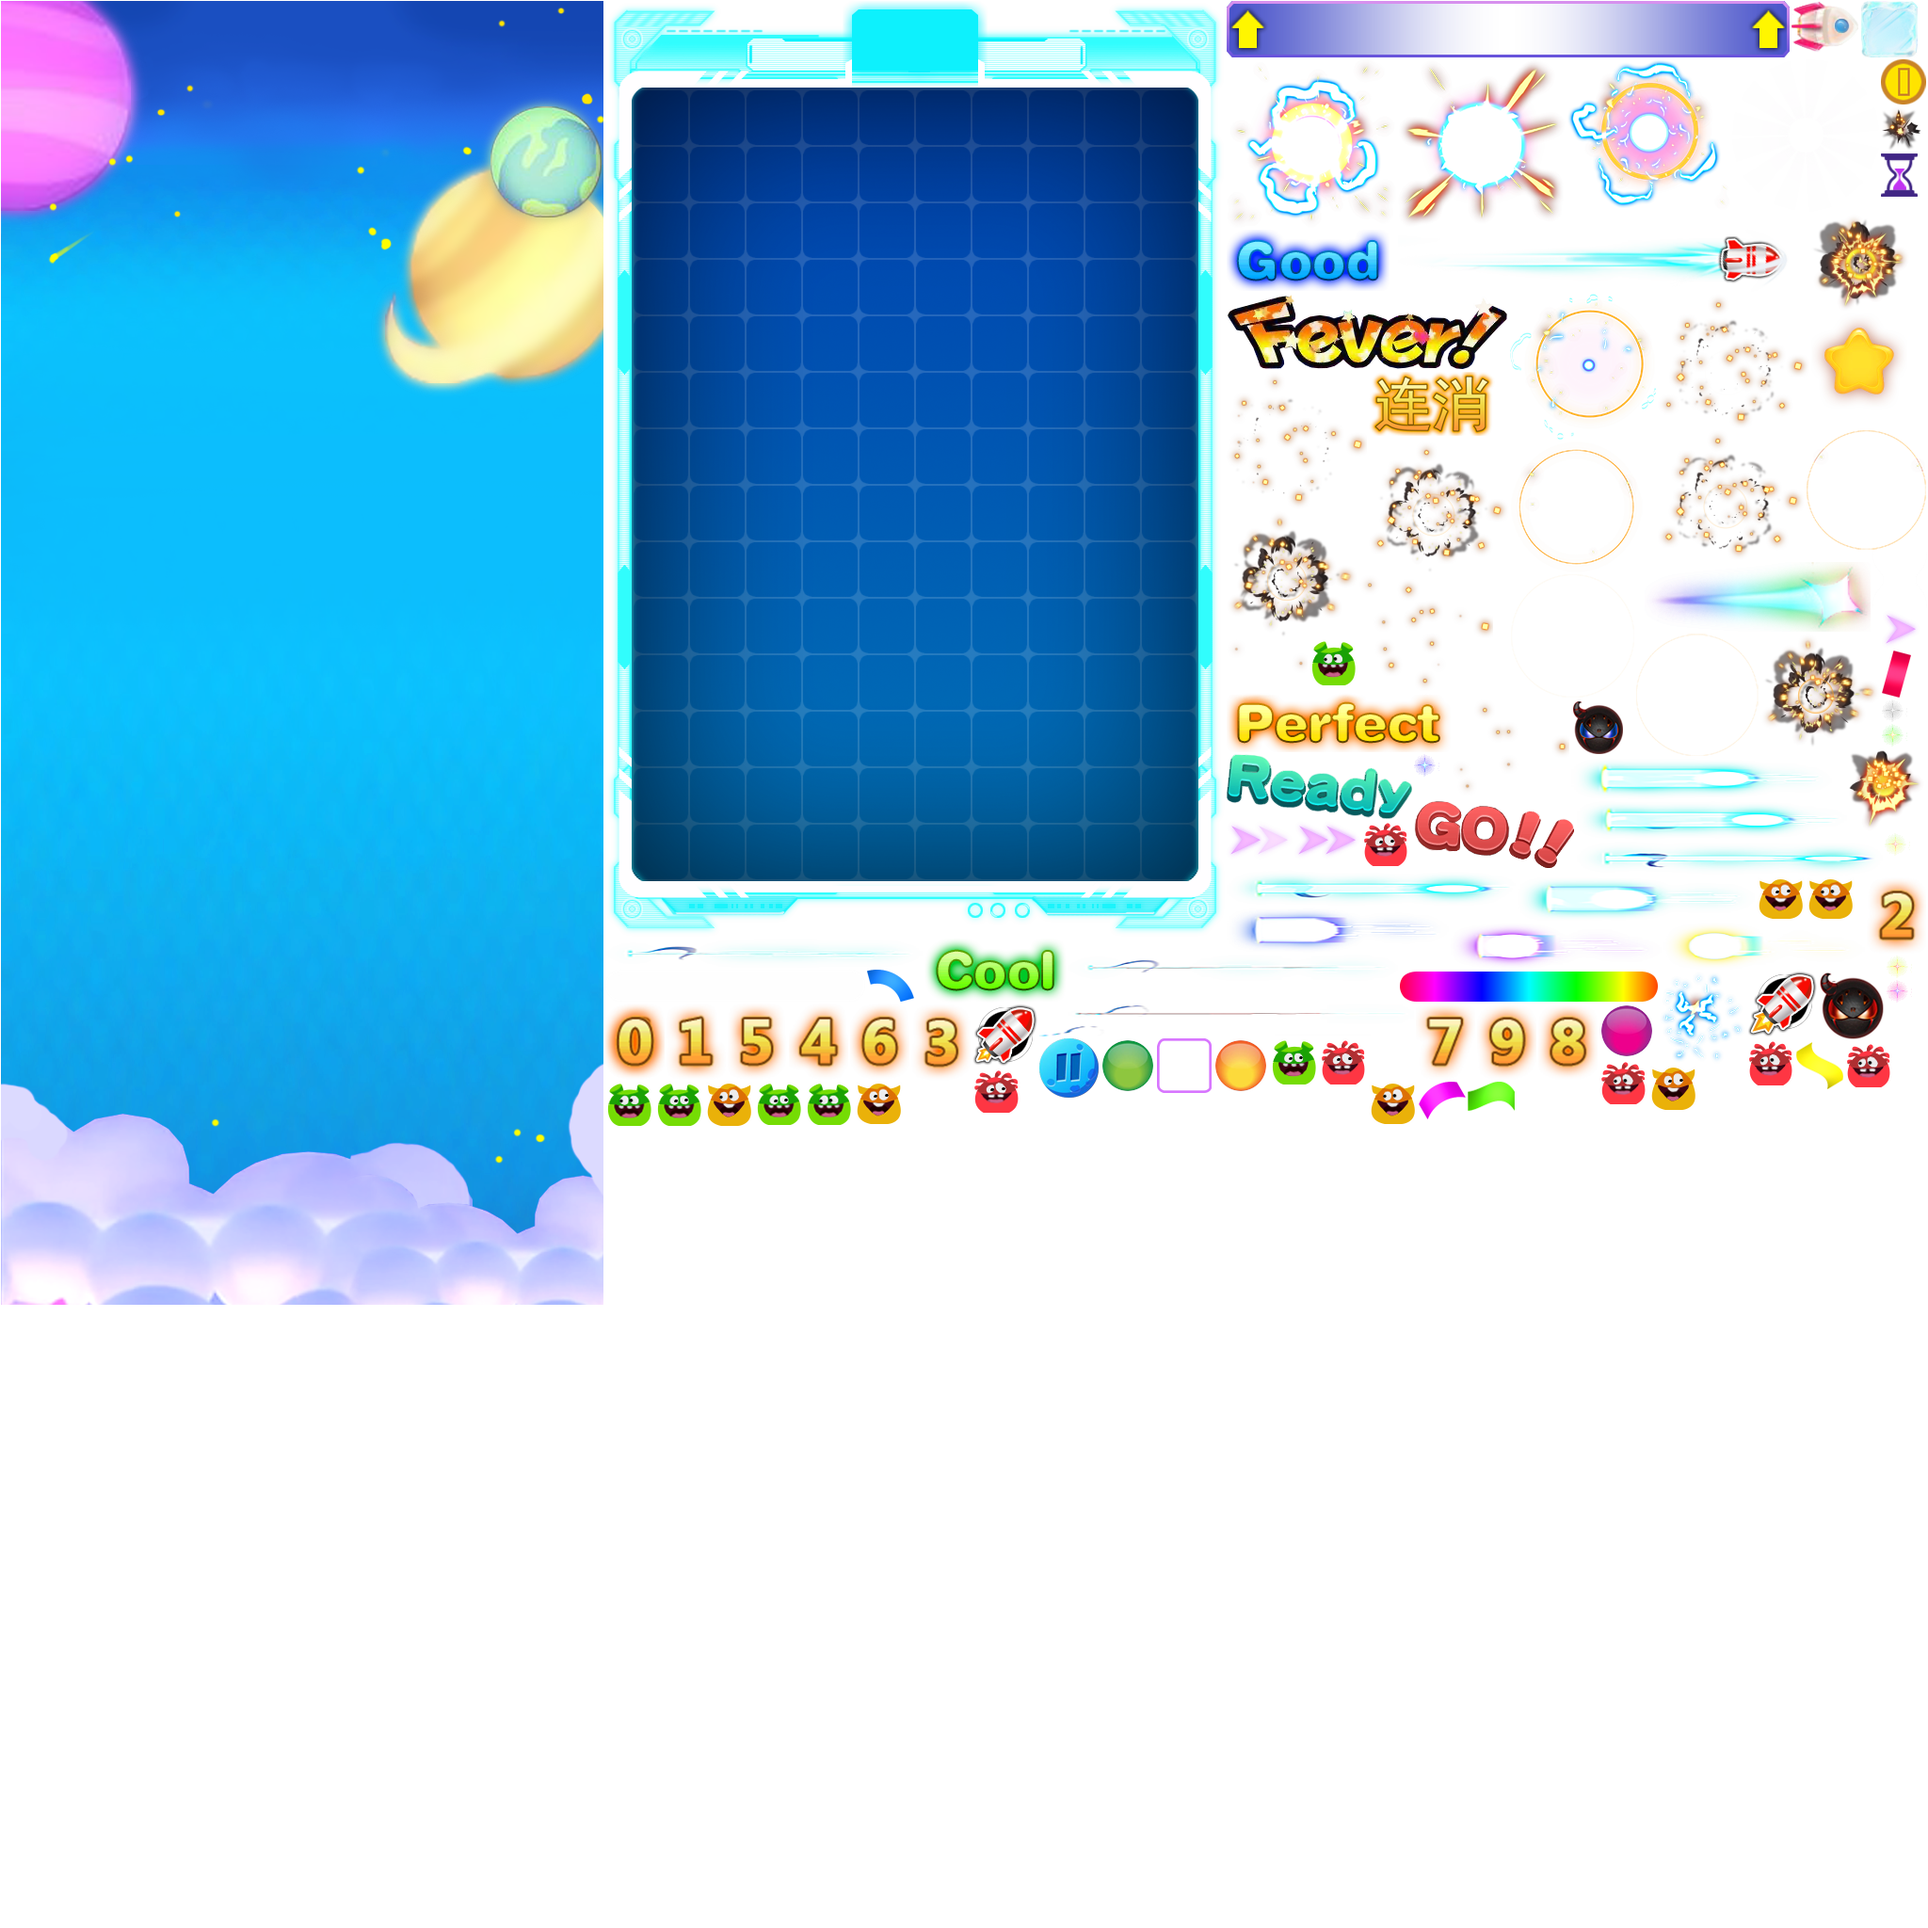
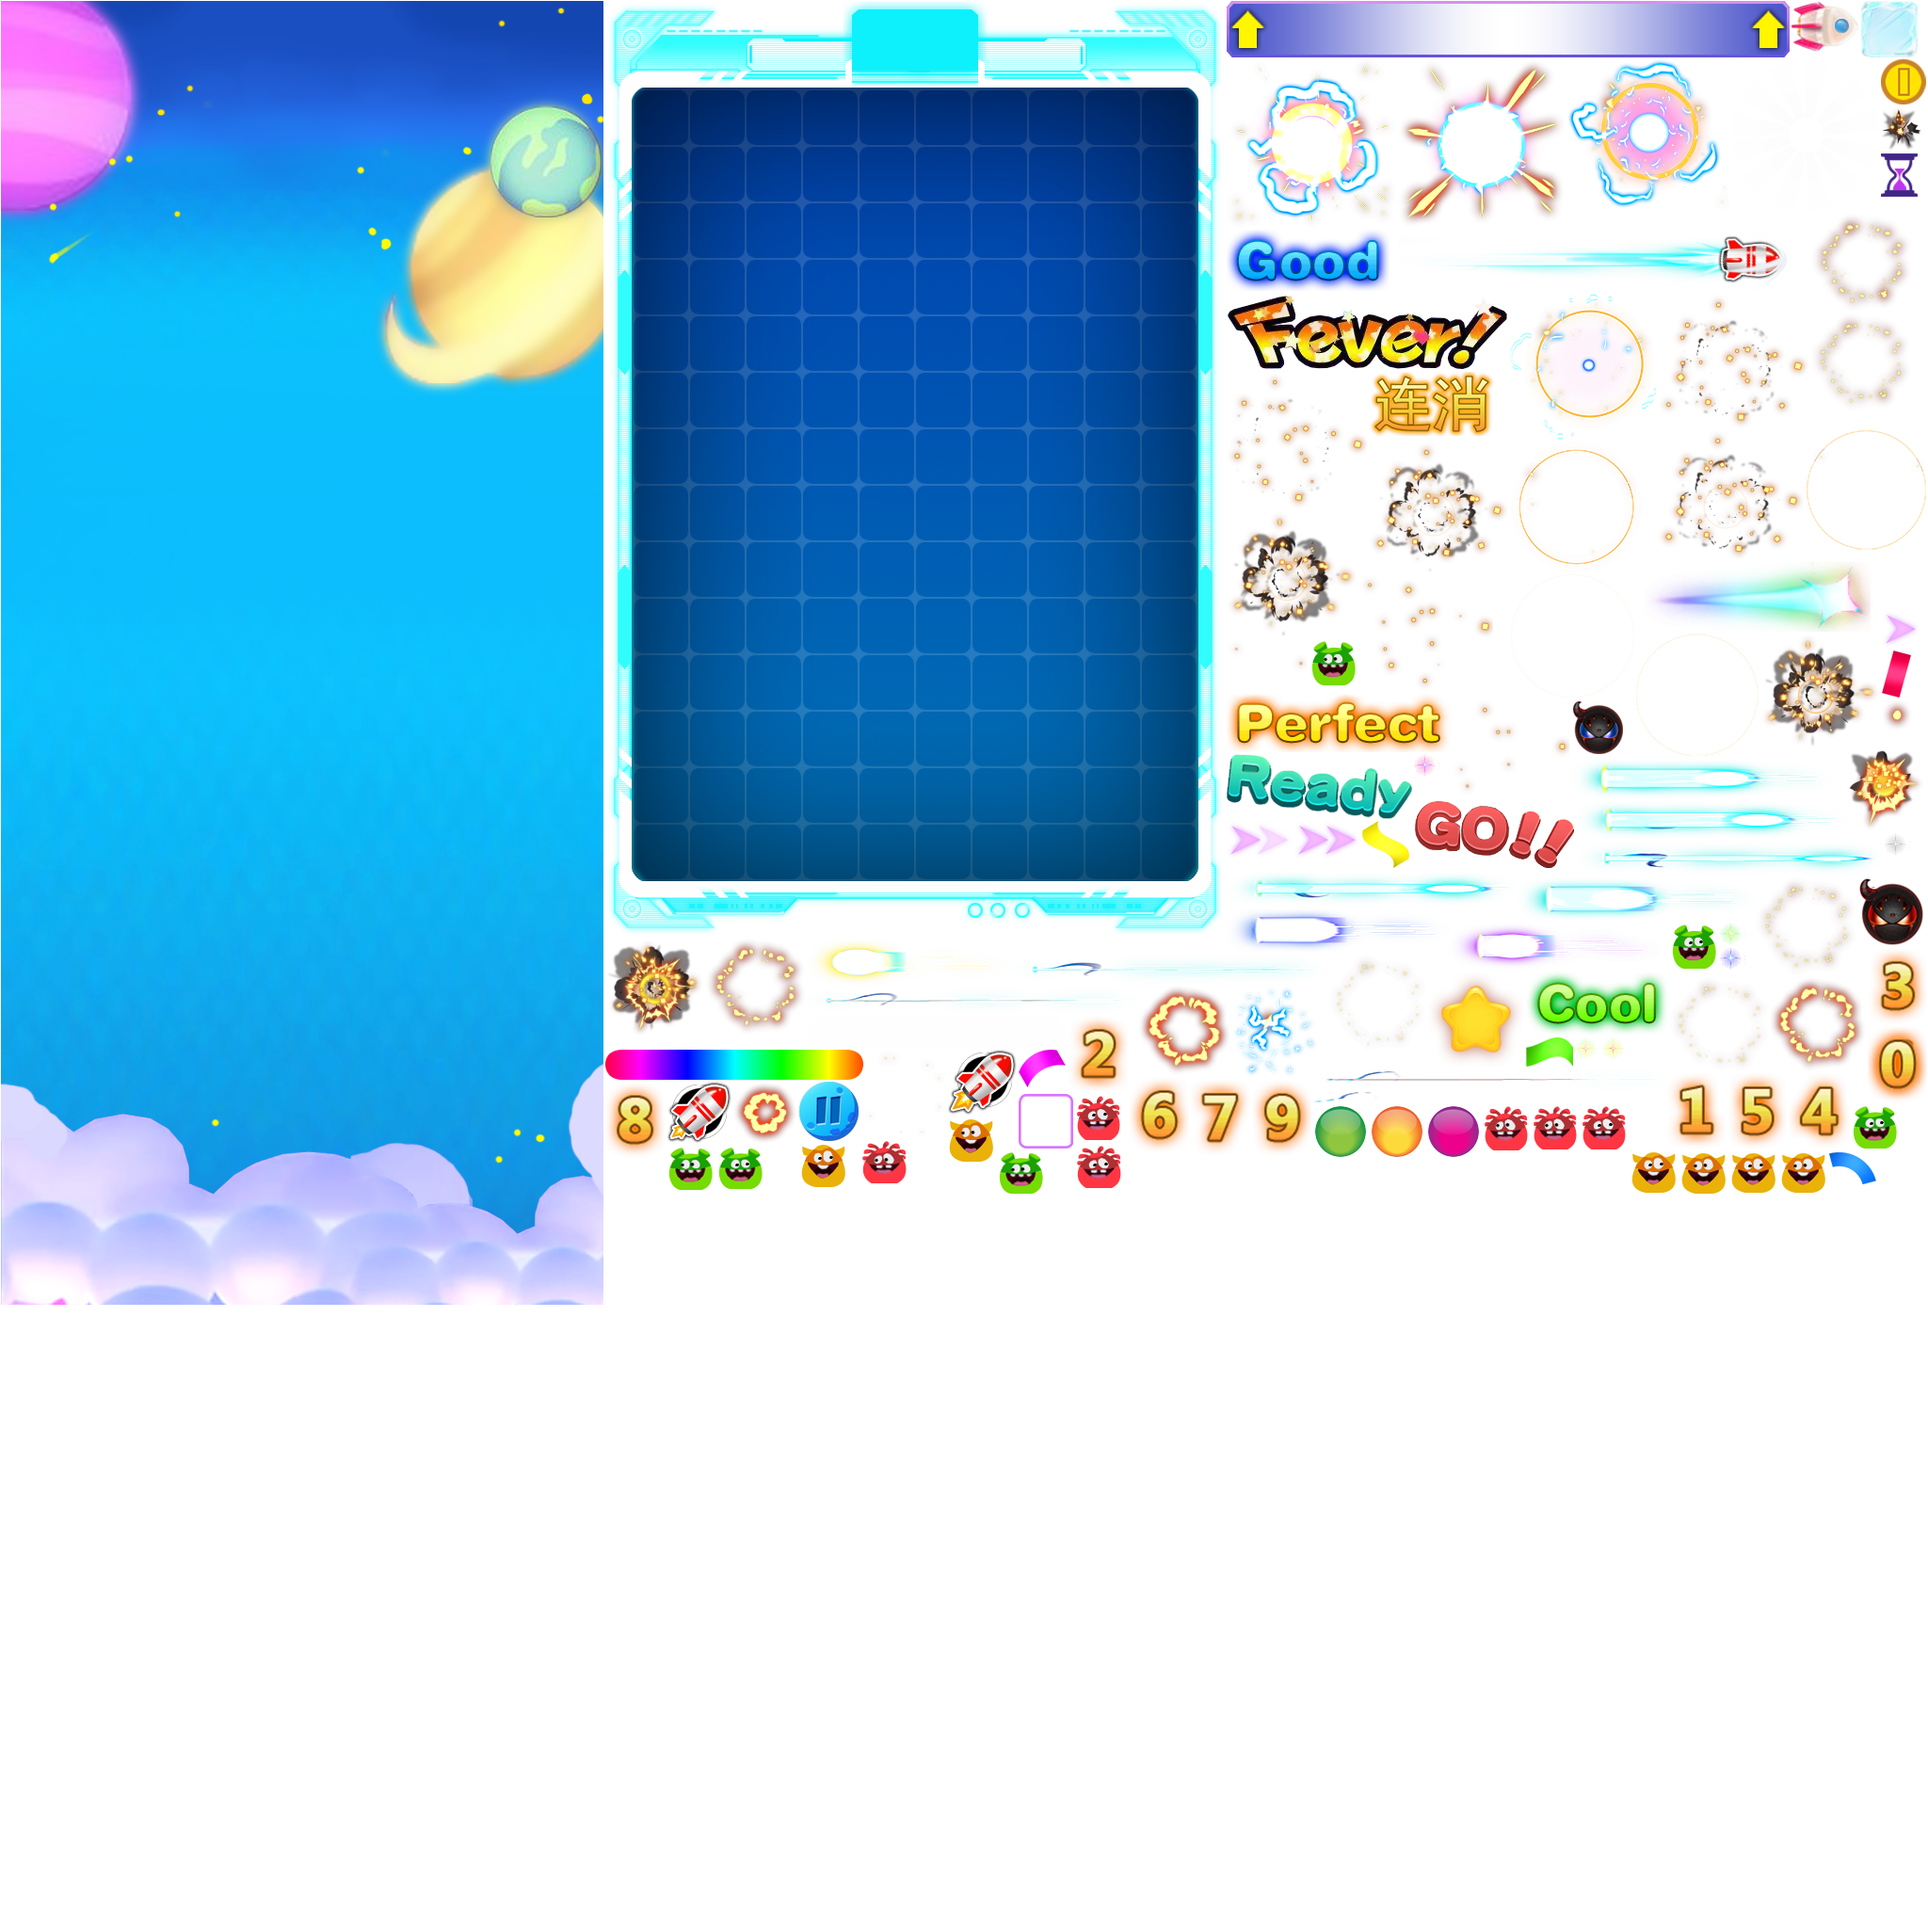
【资源】药丸落地特效

Changed region(s): [[0.3125, 0.4375, 1.0, 0.625], [0.9375, 0.0938, 1.0, 0.2188], [0.6875, 0.4062, 0.75, 0.4688]]

diff --git a/PDProject/src/GameElement/DataElement/Scene.ts b/PDProject/src/GameElement/DataElement/Scene.ts
@@ -76,6 +76,19 @@ class Scene extends GameModuleComponentBase
                     operationSuccess = this.GetElementGroupMoveSpace(elementList, event.moveDir) >= event.moveStep;
                     if (operationSuccess)
                         this.MoveElementGroup(elementList, event.moveDir, event.moveStep);
+                    else if (event.moveDir == Direction.Down)
+                    {
+                        var pos = new egret.Point(0, 0);
+                        var count = 0;
+                        for (count = 0; count < elementList.length; ++count)
+                        {
+                            pos.x += Tools.ElementPosToGameStagePosX(elementList[count].posx);
+                            pos.y += Tools.ElementPosToGameStagePosY(elementList[count].posy);
+                        }
+                        pos.x /= count;
+                        pos.y /= count;
+                        Tools.PlayPillLandEffect(pos);
+                    }
                     break;
                 }
             case SceneElementControlType.Rotation:

diff --git a/PDProject/src/GameConfig/GameConfig.ts b/PDProject/src/GameConfig/GameConfig.ts
@@ -50,3 +50,7 @@ const Frame_Anim_Virus_Blue_Idle = ["Virus_Blue_Idle1", "Virus_Blue_Idle1", "Vir
                                              "Virus_Blue_Idle6", "Virus_Blue_Idle6", "Virus_Blue_Idle9", "Virus_Blue_Idle10"];
 const Frame_Anim_Virus_Yellow_Idle = ["Virus_Yellow_Idle1", "Virus_Yellow_Idle1", "Virus_Yellow_Idle1", "Virus_Yellow_Idle4", "Virus_Yellow_Idle5", "Virus_Yellow_Idle6",
                                              "Virus_Yellow_Idle6", "Virus_Yellow_Idle6", "Virus_Yellow_Idle9", "Virus_Yellow_Idle10"];
+
+const Frame_Anim_Pill_Land_Effect = ["LuoDi_00000", "LuoDi_00001", "LuoDi_00002", "LuoDi_00003", 
+                                "LuoDi_00004", "LuoDi_00005", "LuoDi_00006", "LuoDi_00007", "LuoDi_00008", "LuoDi_00009", "LuoDi_00010"];
+                                             

diff --git a/PDProject/src/FrameWork/Tools.ts b/PDProject/src/FrameWork/Tools.ts
@@ -339,4 +339,18 @@ class Tools
 			}
 		}
 	}
+
+	// 播放药丸落地特效（坐标是转换过的位置坐标）
+	public static PlayPillLandEffect(pos: egret.Point)
+	{
+		var playEffectParam = new PaPlayFramesAnimParam()
+		playEffectParam.pos = pos;
+		playEffectParam.textNameSeq = Frame_Anim_Pill_Land_Effect;
+		playEffectParam.interval = 50;
+		playEffectParam.times = 1;
+        playEffectParam.scale = new egret.Point(2,2);
+		var event = new PlayProgramAnimationEvent();
+        event.param = playEffectParam;
+        GameMain.GetInstance().DispatchEvent(event);
+	}
 }
